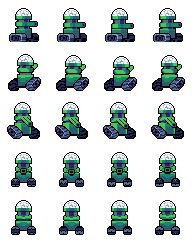
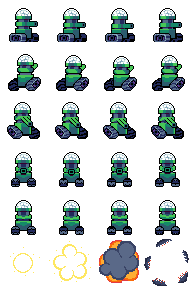
Added robot Explosion

diff --git a/game/core/src/Opponents/Robot.java b/game/core/src/Opponents/Robot.java
@@ -39,7 +39,8 @@ public class Robot extends Sprite {
         RIGHT,
         LOWER,
         UP,
-        DOWN
+        DOWN,
+        DEAD
     }
 
     public State currentState;
@@ -53,6 +54,7 @@ public class Robot extends Sprite {
     private Animation<TextureRegion> robotRunLower;
     private Animation<TextureRegion> robotRunUp;
     private Animation<TextureRegion> robotRunDown;
+    private Animation<TextureRegion> robotExplode;
     public ArrayList<TextureRegion> robotAllFrames = new ArrayList<>();
     private HashMap<TextureRegion, Integer> frameIndexMap = new HashMap<>();
     public boolean runningRight;
@@ -61,6 +63,8 @@ public class Robot extends Sprite {
     private int health;
     public boolean shouldBeDestroyed = false;
     private String uuid;
+    private int counter = 0;
+    private int timeForExplosion = 25;
 
     /**
      * First constructor for a robot that gets created in the center of the map
@@ -133,6 +137,7 @@ public class Robot extends Sprite {
         robotRun = createAnimation(0, 3, 0);
         robotRunDown = createAnimation(0, 3, 3);
         robotRunUp = createAnimation(0, 3, 4);
+        robotExplode = createAnimation(0, 3, 5);
     }
 
 
@@ -161,16 +166,16 @@ public class Robot extends Sprite {
      */
     public void update(float delta) {
         if (health <= 0) {
-            B2WorldCreator.robotsToDestroy.add(this);
+            counter++;
+            if (counter >= timeForExplosion) {
+                B2WorldCreator.robotsToDestroy.add(this);
+            }
         }
-
         updatePosition();
         setPosition(b2body.getPosition().x - getWidth() / 2, b2body.getPosition().y - getHeight() / 2);
         region = getFrame(delta);
         setRegion(region);
         b2body.setAwake(true);
-
-
     }
 
     /**
@@ -243,6 +248,9 @@ public class Robot extends Sprite {
             case DOWN:
                 region = robotRunDown.getKeyFrame(stateTimer, true);
                 break;
+            case DEAD:
+                region = robotExplode.getKeyFrame(stateTimer, true);
+                break;
         }
         // Start the animation from the start if currentState or currentDirection have changed
         stateTimer = (currentState == prevState && currentDirection == prevRunDirection) ? stateTimer + dt : 0;
@@ -268,6 +276,9 @@ public class Robot extends Sprite {
      * @return The current running direction of the robot (right side).
      */
     private runDirection getRunDirection() {
+        if (health <= 0) {
+            return runDirection.DEAD;
+        }
         float velocityX = Math.abs(b2body.getLinearVelocity().x); // We only care for positive x here so for example if running direction is upper left, then we want to return upper right
         float velocityY = b2body.getLinearVelocity().y;
 
@@ -343,8 +354,9 @@ public class Robot extends Sprite {
     public void takeDamage(int damage) {
         health -= damage;
 
-        if (health <= 0) {
+        if (health <= 0 && counter >= timeForExplosion) {
             shouldBeDestroyed = true;
+            counter = 0;
         }
     }
 
